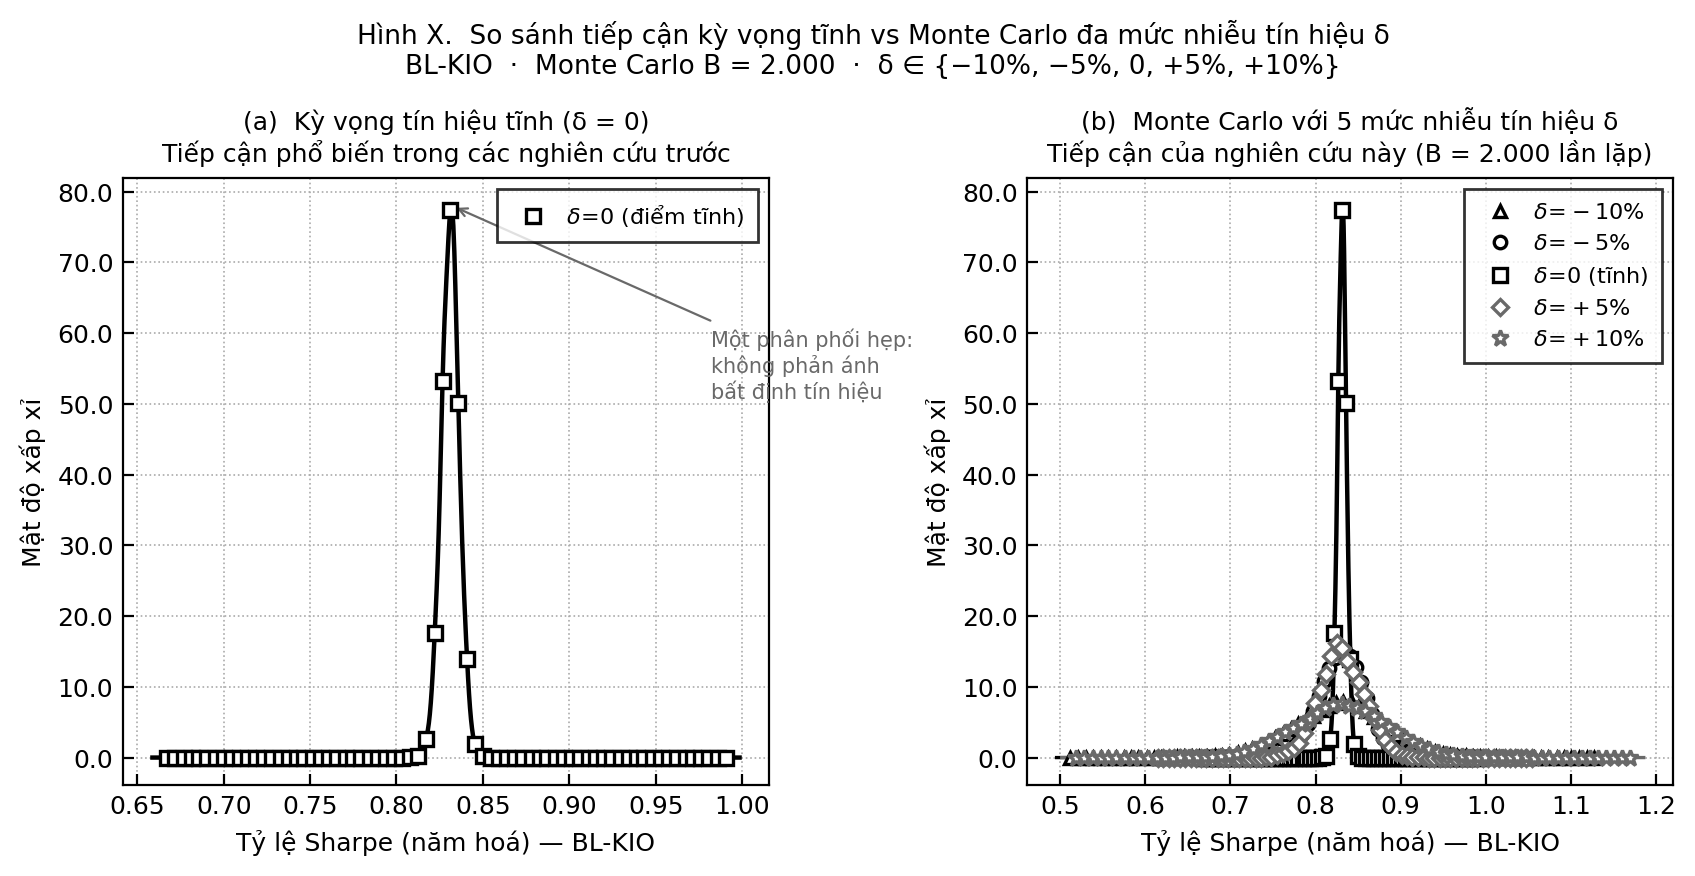
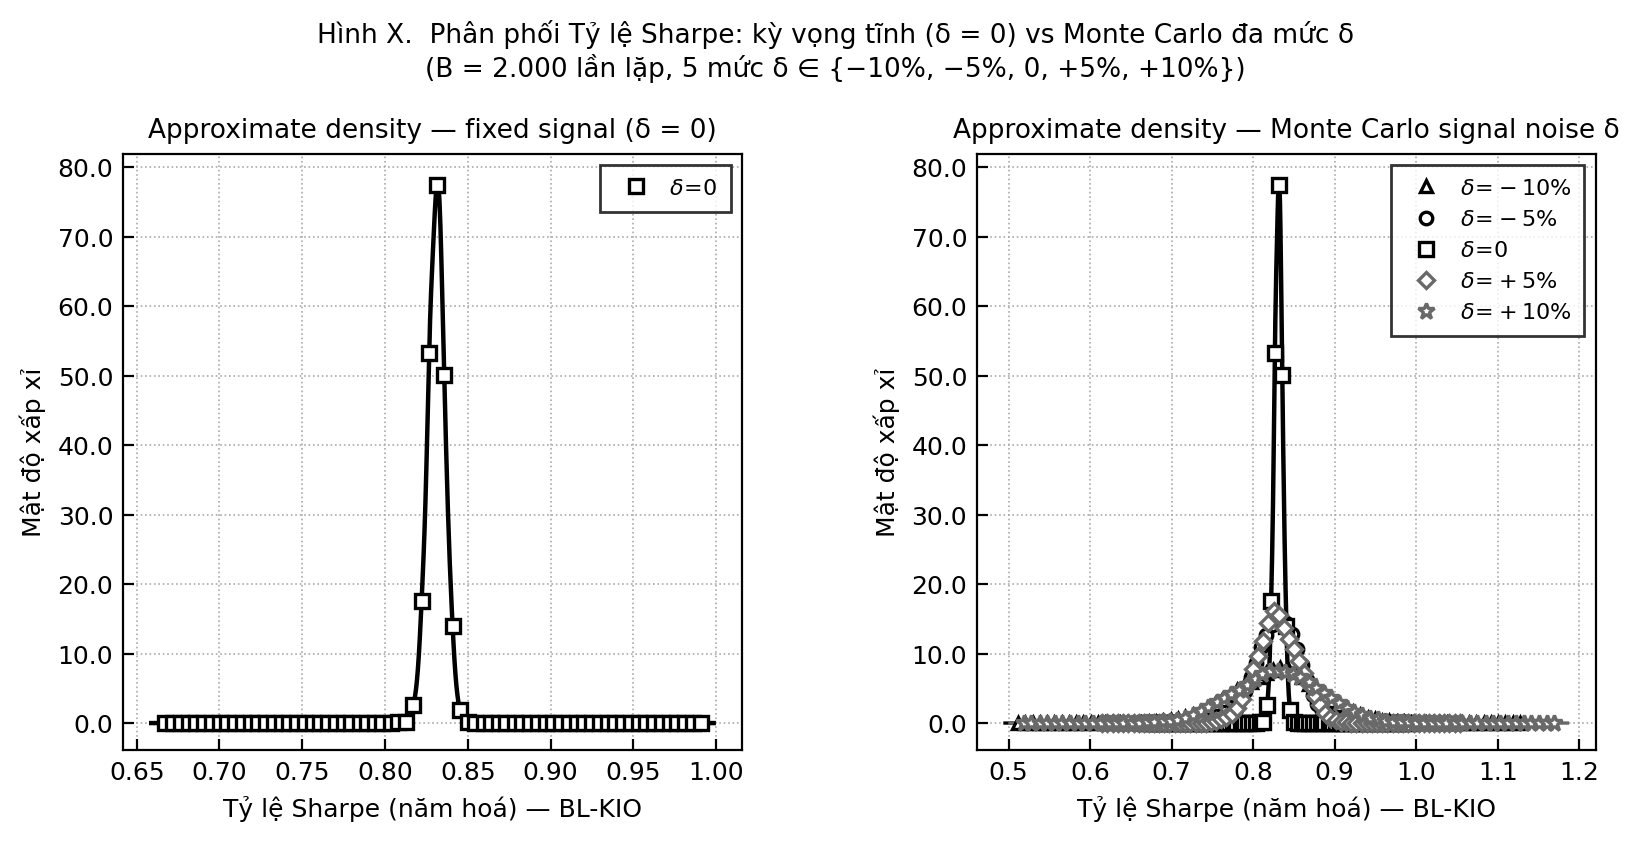
Clean up density comparison figure: remove annotation, unify MATLAB style
Both panels now use identical KDE formatting (markers, grid, legend box).
Panel (a) single delta=0 curve, panel (b) five Monte Carlo delta curves.

https://claude.ai/code/session_01SDk2FqtKfcoD3LoHrfohKT

diff --git a/plot_density_comparison.py b/plot_density_comparison.py
@@ -1,7 +1,6 @@
 """
-Figure: Static vs Monte Carlo approach comparison
-Left : "Kỳ vọng tĩnh" – single delta=0 curve (what other studies do)
-Right: Monte Carlo 5 delta levels (this study) – shows robustness
+Figure: Static (delta=0) vs Monte Carlo multi-delta comparison
+Both panels use identical MATLAB-style KDE formatting.
 """
 
 import pandas as pd
@@ -35,18 +34,13 @@ plt.rcParams.update({
 df     = pd.read_csv("output/monte_carlo_v2.csv")
 deltas = sorted(df["Delta_Noise"].unique())
 
-tan_scalar = df.groupby("Delta_Noise")["Sharpe_TAN"].mean().to_dict()
-df["Excess_Sharpe"] = df.apply(
-    lambda r: r["Sharpe_BL_KIO"] - tan_scalar[r["Delta_Noise"]], axis=1
-)
-
 N_KDE  = 600
 MARK_N = 70
 
 CONFIGS = {
     -0.10: dict(ls="-",  marker="^", lw=1.2, ms=4.5, label=r"$\delta\!=\!-10\%$"),
     -0.05: dict(ls="--", marker="o", lw=1.2, ms=4.5, label=r"$\delta\!=\!-5\%$"),
-     0.00: dict(ls="-",  marker="s", lw=1.6, ms=5.0, label=r"$\delta\!=\!0$ (tĩnh)"),
+     0.00: dict(ls="-",  marker="s", lw=1.6, ms=5.0, label=r"$\delta\!=\!0$"),
      0.05: dict(ls="--", marker="D", lw=1.2, ms=4.0, label=r"$\delta\!=\!+5\%$"),
      0.10: dict(ls="-",  marker="*", lw=1.2, ms=6.0, label=r"$\delta\!=\!+10\%$"),
 }
@@ -58,59 +52,14 @@ COLORS = {
      0.10: "dimgray",
 }
 
-fig, axes = plt.subplots(1, 2, figsize=(10, 4.4))
-fig.subplots_adjust(wspace=0.40, top=0.80)
+fig, axes = plt.subplots(1, 2, figsize=(9.5, 4.2))
+fig.subplots_adjust(wspace=0.38, top=0.82)
 
-# ── Panel LEFT: chỉ delta=0 (tiếp cận kỳ vọng tĩnh duy nhất) ──────────────
-ax = axes[0]
-ax.grid(True, zorder=0)
 
-sub0 = df[df["Delta_Noise"] == 0.0]["Sharpe_BL_KIO"].dropna().values
-kde0 = gaussian_kde(sub0, bw_method=0.28)
-x0   = np.linspace(sub0.min() - 0.15, sub0.max() + 0.15, N_KDE)
-y0   = kde0(x0)
-
-ax.plot(x0, y0, color="black", linestyle="-", linewidth=1.6, zorder=3, label="_nolegend_")
-idx0 = np.round(np.linspace(15, N_KDE - 15, MARK_N)).astype(int)
-ax.plot(x0[idx0], y0[idx0],
-        color="black", marker="s", markersize=5.0, linestyle="None",
-        markerfacecolor="white", markeredgewidth=1.2, zorder=4,
-        label=r"$\delta\!=\!0$ (điểm tĩnh)")
-
-ax.set_xlabel("Tỷ lệ Sharpe (năm hoá) — BL-KIO", fontsize=9)
-ax.set_ylabel("Mật độ xấp xỉ", fontsize=9)
-ax.set_title("(a)  Kỳ vọng tín hiệu tĩnh (δ = 0)\n"
-             "Tiếp cận phổ biến trong các nghiên cứu trước",
-             fontsize=9, pad=6)
-ax.yaxis.set_major_formatter(ticker.FormatStrFormatter("%.1f"))
-
-handles0 = [h for h in ax.get_legend_handles_labels()[0]
-            if hasattr(h, 'get_marker') and h.get_marker() != "None"]
-labels0  = [l for h, l in zip(*ax.get_legend_handles_labels()) if l != "_nolegend_"]
-ax.legend(handles=handles0, labels=labels0,
-          loc="upper right", handlelength=2.0, handletextpad=0.5, borderpad=0.6)
-
-# Chú thích: "một phân phối hẹp — không phản ánh bất định tín hiệu"
-ax.annotate("Một phân phối hẹp:\nkhông phản ánh\nbất định tín hiệu",
-            xy=(x0[y0.argmax()], y0.max()), xycoords="data",
-            xytext=(x0[y0.argmax()] + 0.15, y0.max() * 0.65),
-            fontsize=7.5, color="dimgray",
-            arrowprops=dict(arrowstyle="->", color="dimgray", lw=0.8))
-
-# ── Panel RIGHT: Monte Carlo 5 mức δ (tiếp cận của nghiên cứu này) ─────────
-ax = axes[1]
-ax.grid(True, zorder=0)
-
-for delta in deltas:
-    d   = round(float(delta), 2)
-    sub = df[df["Delta_Noise"] == delta]["Sharpe_BL_KIO"].dropna().values
-    kde = gaussian_kde(sub, bw_method=0.28)
-    x   = np.linspace(sub.min() - 0.15, sub.max() + 0.15, N_KDE)
+def plot_kde_curve(ax, values, cfg, col_c):
+    kde = gaussian_kde(values, bw_method=0.28)
+    x   = np.linspace(values.min() - 0.15, values.max() + 0.15, N_KDE)
     y   = kde(x)
-
-    cfg   = CONFIGS[d]
-    col_c = COLORS[d]
-
     ax.plot(x, y, color=col_c, linestyle=cfg["ls"], linewidth=cfg["lw"],
             zorder=3, label="_nolegend_")
     idx = np.round(np.linspace(15, N_KDE - 15, MARK_N)).astype(int)
@@ -120,22 +69,49 @@ for delta in deltas:
             markerfacecolor="white", markeredgewidth=1.2,
             zorder=4, label=cfg["label"])
 
-ax.set_xlabel("Tỷ lệ Sharpe (năm hoá) — BL-KIO", fontsize=9)
-ax.set_ylabel("Mật độ xấp xỉ", fontsize=9)
-ax.set_title("(b)  Monte Carlo với 5 mức nhiễu tín hiệu δ\n"
-             "Tiếp cận của nghiên cứu này (B = 2.000 lần lặp)",
-             fontsize=9, pad=6)
-ax.yaxis.set_major_formatter(ticker.FormatStrFormatter("%.1f"))
 
-handles = [h for h in ax.get_legend_handles_labels()[0]
-           if hasattr(h, 'get_marker') and h.get_marker() != "None"]
-labels  = [l for h, l in zip(*ax.get_legend_handles_labels()) if l != "_nolegend_"]
-ax.legend(handles=handles, labels=labels,
-          loc="upper right", handlelength=2.0, handletextpad=0.5, borderpad=0.6)
+def finish_ax(ax, xlabel, title):
+    ax.set_xlabel(xlabel, fontsize=9)
+    ax.set_ylabel("Mật độ xấp xỉ", fontsize=9)
+    ax.set_title(title, fontsize=9.5, pad=6)
+    ax.yaxis.set_major_formatter(ticker.FormatStrFormatter("%.1f"))
+    handles = [h for h in ax.get_legend_handles_labels()[0]
+               if hasattr(h, 'get_marker') and h.get_marker() != "None"]
+    labels  = [l for h, l in zip(*ax.get_legend_handles_labels()) if l != "_nolegend_"]
+    ax.legend(handles=handles, labels=labels,
+              loc="upper right", handlelength=2.0,
+              handletextpad=0.5, borderpad=0.6)
+
+
+# ── Panel (a): chỉ delta = 0 ────────────────────────────────────────────────
+ax = axes[0]
+ax.grid(True, zorder=0)
+
+sub0 = df[df["Delta_Noise"] == 0.0]["Sharpe_BL_KIO"].dropna().values
+plot_kde_curve(ax, sub0, CONFIGS[0.00], COLORS[0.00])
+
+finish_ax(ax,
+    xlabel="Tỷ lệ Sharpe (năm hoá) — BL-KIO",
+    title="Approximate density — fixed signal (δ = 0)")
+
+
+# ── Panel (b): Monte Carlo 5 mức delta ──────────────────────────────────────
+ax = axes[1]
+ax.grid(True, zorder=0)
+
+for delta in deltas:
+    d   = round(float(delta), 2)
+    sub = df[df["Delta_Noise"] == delta]["Sharpe_BL_KIO"].dropna().values
+    plot_kde_curve(ax, sub, CONFIGS[d], COLORS[d])
+
+finish_ax(ax,
+    xlabel="Tỷ lệ Sharpe (năm hoá) — BL-KIO",
+    title="Approximate density — Monte Carlo signal noise δ")
+
 
 fig.suptitle(
-    "Hình X.  So sánh tiếp cận kỳ vọng tĩnh vs Monte Carlo đa mức nhiễu tín hiệu δ\n"
-    "BL-KIO  ·  Monte Carlo B = 2.000  ·  δ ∈ {−10%, −5%, 0, +5%, +10%}",
+    "Hình X.  Phân phối Tỷ lệ Sharpe: kỳ vọng tĩnh (δ = 0) vs Monte Carlo đa mức δ\n"
+    "(B = 2.000 lần lặp, 5 mức δ ∈ {−10%, −5%, 0, +5%, +10%})",
     fontsize=9.5, y=0.98
 )
 